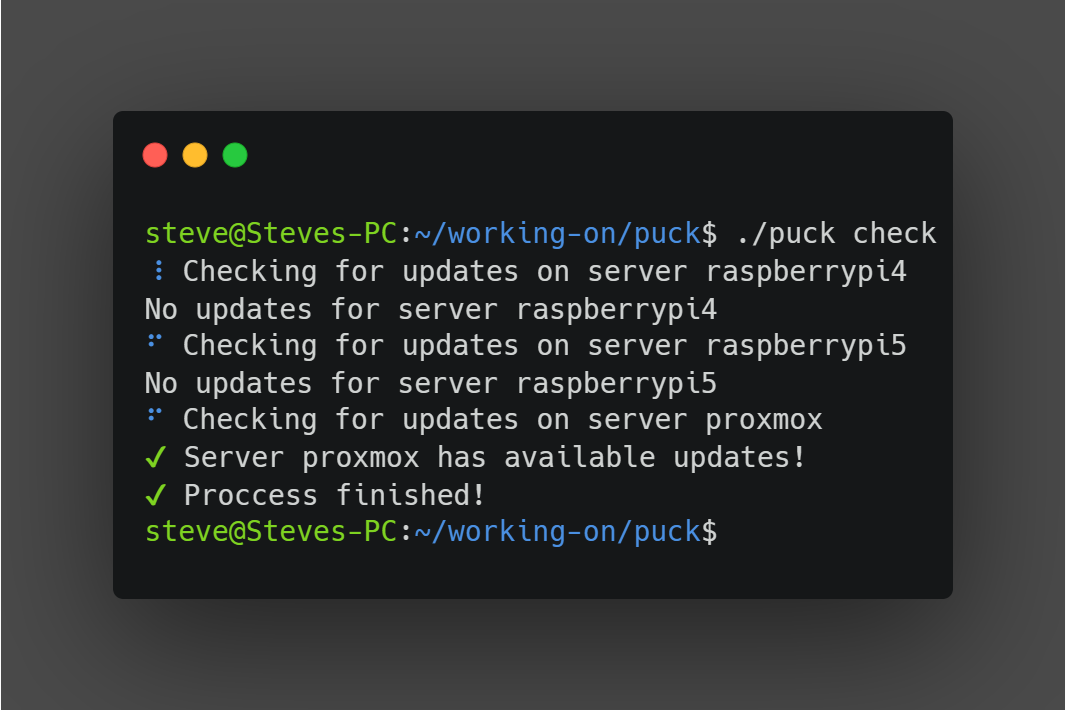
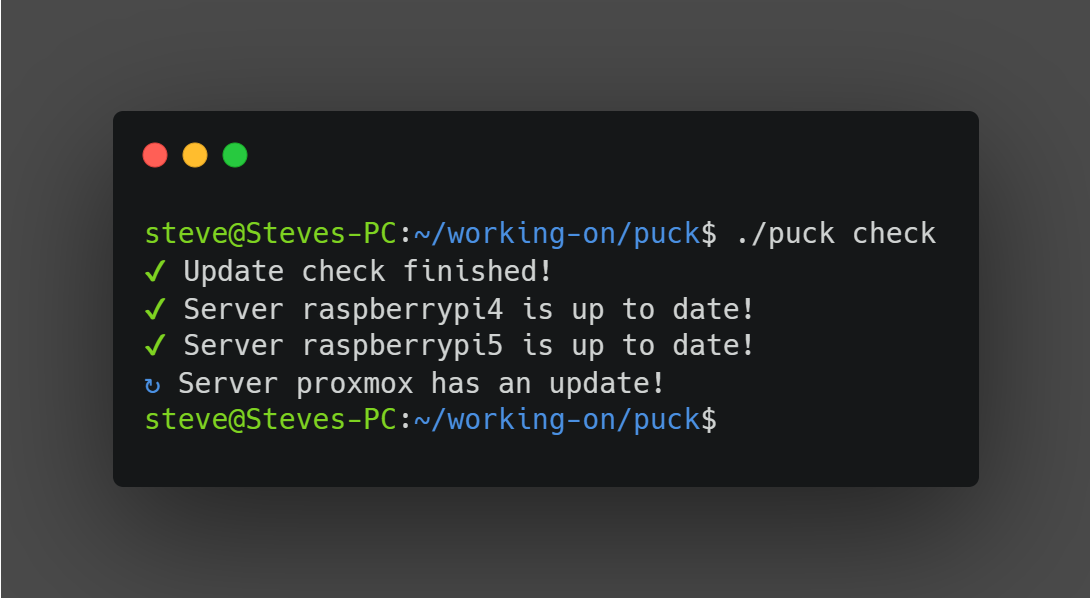
docs: change screenshot to match new tui

Changed region(s): [[0.0929, 0.1505, 0.8977, 0.7826], [0.0929, 0.8127, 0.8977, 0.8428]]

diff --git a/README.md b/README.md
@@ -19,7 +19,7 @@ Well about that...
 
 ### Todo 📃
 
-- [ ] Redesign the CLI UI
+- [x] Redesign the CLI UI
 - [ ] Docker Image
 - [ ] Web UI
 - [ ] Notifications (via ntfy/discord)
